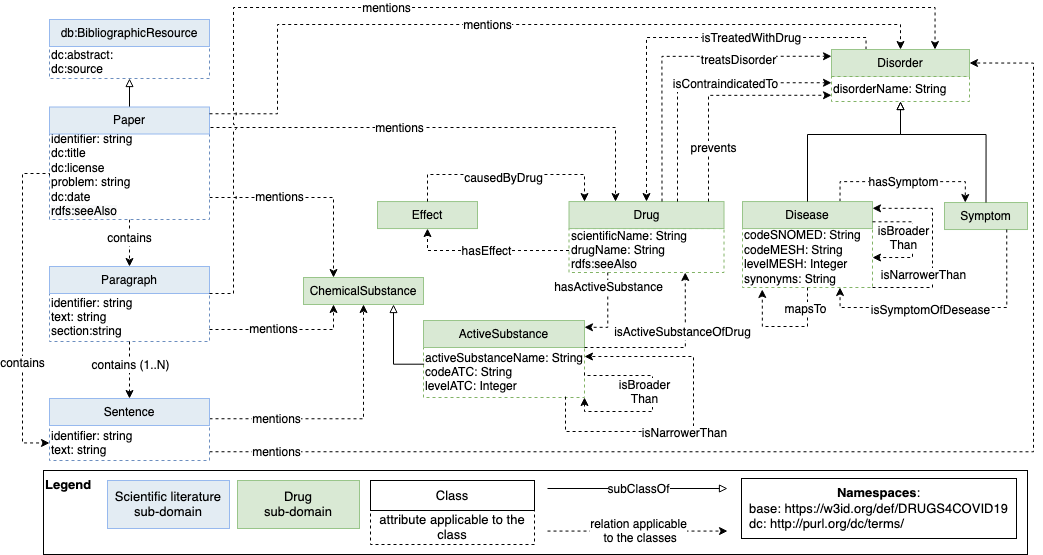
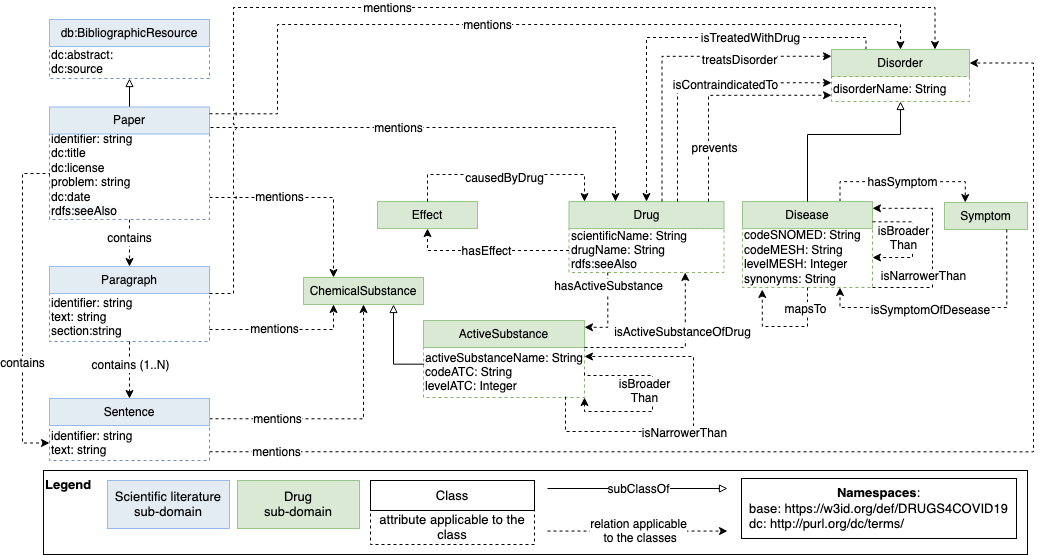
removed subclass of (symptom)

diff --git a/OnToology/ontology/onto.owl/documentation/index-es.html b/OnToology/ontology/onto.owl/documentation/index-es.html
@@ -61,7 +61,7 @@ function loadTOC(){
 <dt>URI:</dt>
 <dd><a href="https://w3id.org/def/DRUGS4COVID19">https://w3id.org/def/DRUGS4COVID19</a></dd>
 <dt>Revisi&oacute;n n&uacute;mero:</dt>
-<dd>0.4</dd>
+<dd>0.5</dd>
 <dl><dt>Autores:</dt>
 <dd><a href="http://www.oeg-upm.net/">http://www.oeg-upm.net/</a></dd></dl>
 

diff --git a/OnToology/ontology/onto.owl/documentation/index-en.html b/OnToology/ontology/onto.owl/documentation/index-en.html
@@ -61,7 +61,7 @@ function loadTOC(){
 <dt>URI:</dt>
 <dd><a href="https://w3id.org/def/DRUGS4COVID19">https://w3id.org/def/DRUGS4COVID19</a></dd>
 <dt>Revision:</dt>
-<dd>0.4</dd>
+<dd>0.5</dd>
 <dl><dt>Authors:</dt>
 <dd><a href="http://www.oeg-upm.net/">http://www.oeg-upm.net/</a></dd></dl>
 
